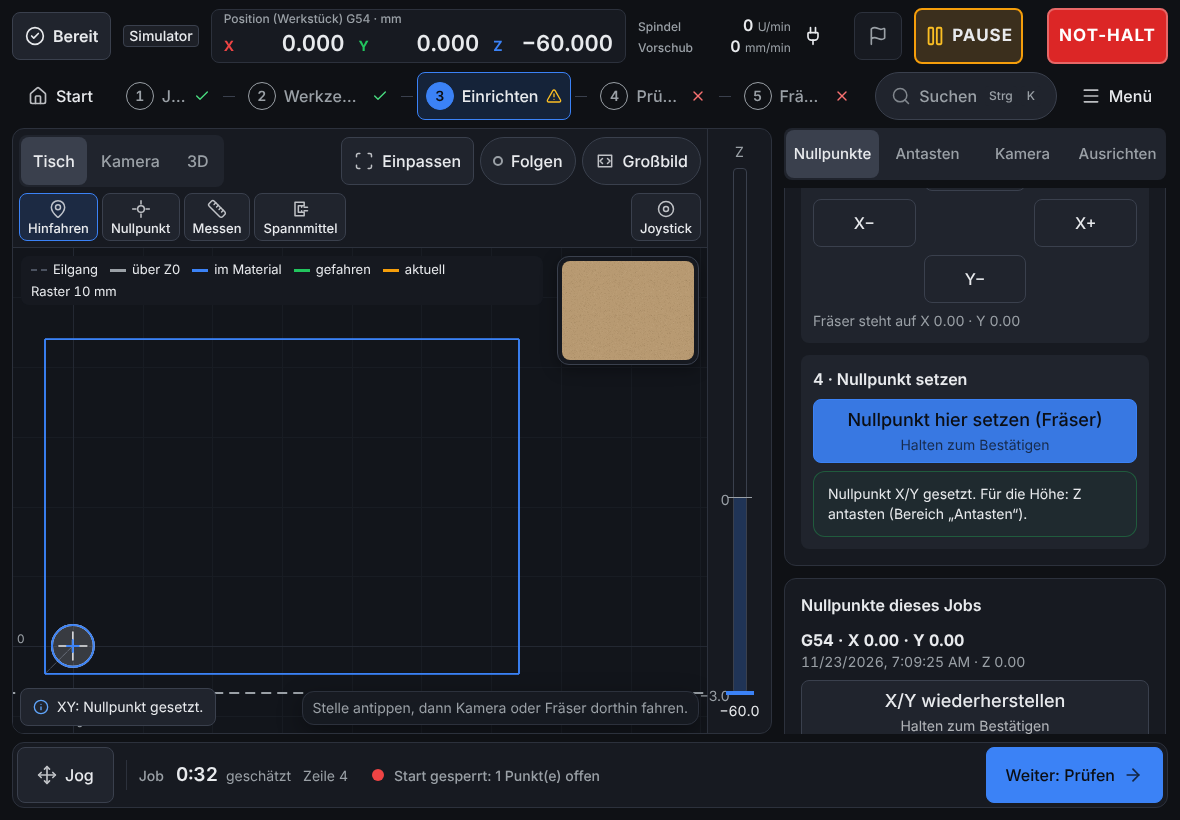
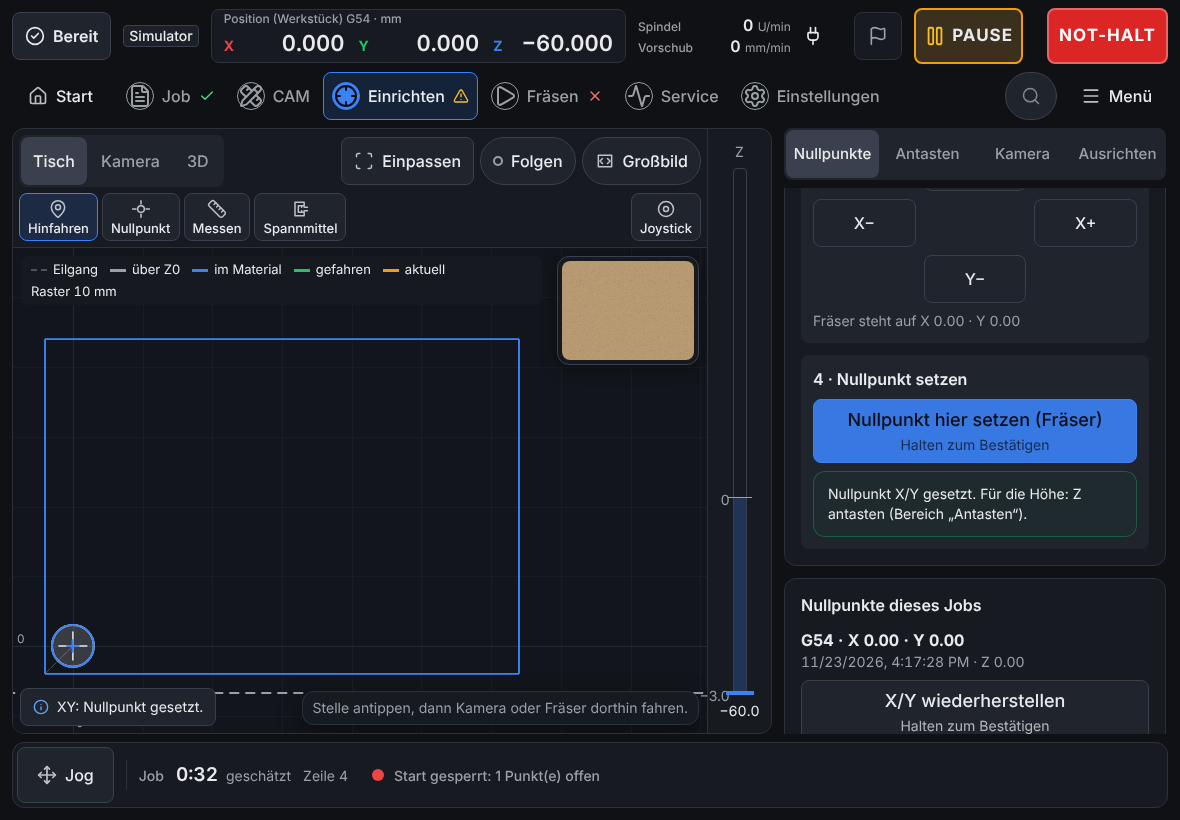
Acceptance notes for stage 1: recount, action bar screenshots, scripts point at the built app
Claude-Session: https://claude.ai/code/session_01D2HtvuxjBH1HzGFNtsWRXK

diff --git a/bewertung/entscheidungen.md b/bewertung/entscheidungen.md
@@ -48,6 +48,12 @@ B2/B3-Antworten des Betreibers: Steuerung geht nach 10 s Funkstille weiter; Z-Gr
 
 Zu 23: Abweichung vom Wortlaut, den du bestätigt hast („legt die App die geänderte Zeichnung erst auf den Tisch, wenn der Job zu Ende ist“): läuft das Programm der Zeichnung selbst, bleibt es nach dem Job zunächst geladen (die Zusammenfassung und „Nächstes Teil“ gehen nicht still verloren) und der Hinweis bietet den Knopf an. Von selbst geht die Zeichnung nur dorthin, wo nach dem Job nichts geladen ist. Ändern, falls du es anders willst.
 
+## Abnahme Stufe 1 (nach Teil 3)
+- **Tests:** alle drei E2E-Projekte grün (272 bestanden, 1 übersprungen; `usability.spec.ts` unverändert grün), `pnpm check` grün (control 579 Tests).
+- **Zählung (1180×820, wie im Bericht):** Aufgabe A (G-Code laden und fräsen) **13 Eingaben** (10 Tipps/Halten, 3 Zusätze: Dateiauswahl, 2× Scrollen), Aufgabe B (zeichnen und fräsen, über den Reiter CAM) **14 Eingaben** (12 + 2× Scrollen) – gleich wie vor dem Umbau. Der Umbau ändert die Wege, nicht die Zahl; die Gewinne kommen mit Stufe 2 und 3 (Scrollen, angedockte Aktion).
+- **Aktionsleiste (1280×800, 800×600, 820×1180, `skripte/aktionsleiste.cjs`):** Job leer „G-Code öffnen“; Job geladen, CAM, Einrichten, Prüfen, Service: keine Primäraktion; Fräsen (Start gesperrt): „Prüfen“. Screenshots in `screenshots/Aktionsleiste-*`.
+- **Reviews:** Teil 2: 19 Funde, 9 bestätigt (6 Sachfehler: laufendes Programm unter der Zeichnung, Reiter ohne Namen, Überlappung bei schmaler Zeile, Menü-Knopf mit langem Namen, CAM öffnet auf 3D, nextStep im CAM) – alle behoben oder durch Teil 3 erledigt. Teil 3: Review läuft.
+
 ## Stand der Bereichs-Oberfläche
 Stufe 1, Teile 1 und 2 (+ Review-Korrekturen) sind gebaut, getestet und gepusht. Teil 3 (Weiter-Kette und Strg+→ entfernen) wird als Nächstes gemacht, danach Stufe 2 (CAM-Fokus) und Stufe 3 (angedockte Hauptaktion).
 **Regeln des Betreibers:** nicht programmieren, bevor er es freigibt; vor jedem neuen Programmierpunkt Advisor-Plan, sonst nachfragen; offene Fragen immer als Auswahl zum Anklicken stellen.

diff --git a/bewertung/skripte/README.md b/bewertung/skripte/README.md
@@ -1,12 +1,13 @@
 # Zählskripte (Playwright, Chromium vorinstalliert, `require('playwright')`)
 
-Pfad zur entpackten Kopie steht in `lib.cjs` (`SRC`); die Skripte öffnen `lowrider-control.html#simulator` (frisch, nicht referenziert).
+Die Skripte öffnen die gebaute App des Repositorys (`pnpm build`, `pnpm --filter ./apps/control preview`), Standard `http://localhost:4173`, per `APP_URL` umstellbar, als `#simulator` (frisch, nicht referenziert).
 
 - `stepper.cjs` – führt eine Liste von Eingaben aus und zählt: 1 Klick/Tipp = 1, Halten = 1, Tastendruck = 1,
   Dateiauswahl im Systemdialog = +1 (zusätzlich zum Klick, der ihn öffnet), Scrollen = +1 nur, wenn ein Treffertest (`elementFromPoint` im Knopfmittelpunkt) den Knopf als verdeckt oder außerhalb zeigt.
   Warten auf „Bereit“ zählt nicht. Kein Zugriff auf den Store.
 - `a8.cjs` Aufgabe A (G-Code laden), `b3.cjs` Aufgabe B (Rechteck zeichnen), `p1.cjs` Leertaste im Lauf,
   `z1.cjs` sichtbare Bedienelemente je Schritt, `d1.cjs` die vorbefüllte Demo.
+- `aktionsleiste.cjs` – Screenshot des unteren Rands und die Primäraktion je Bereich bei 1280×800, 800×600 und 820×1180.
 - Fenstergröße: `VP=1180x820 node a8.cjs` (Standard 1440x900). Screenshots landen in `../screenshots/`.
 
 - `sicherheit/` – Tests zu Aufgabe 4 (sie halten den Stand der Bewertung fest und bestätigen die damals gefundenen Fehler; B1, B2 und B3 sind inzwischen im Repository behoben, dort stehen die Tests in `apps/control/test`, `apps/companion/test` und `packages/fluidnc-client/test`) (`sicherheit.test.ts` vitest, `ui.spec.ts` Playwright); die Importpfade zeigen auf die Scratchpad-Kopie des Projekts.
